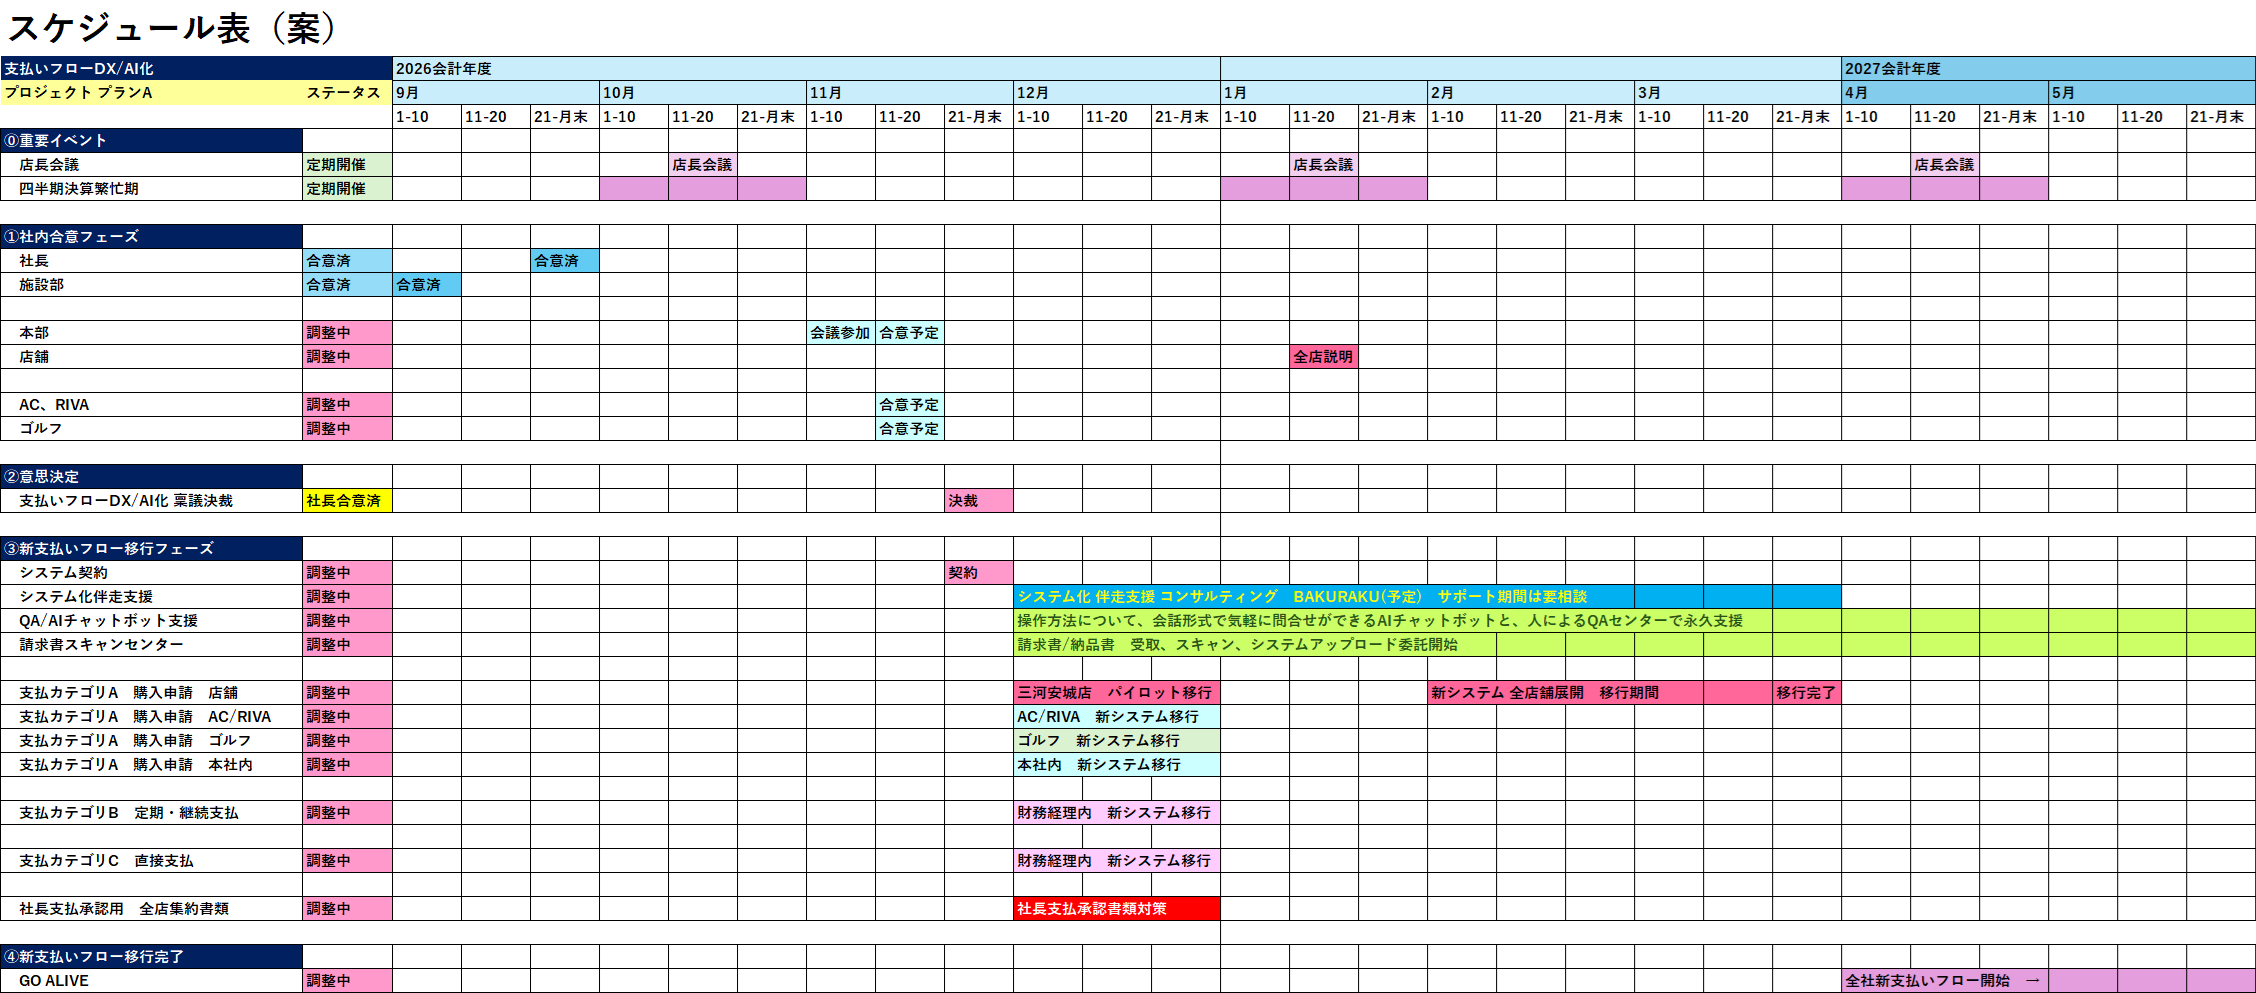
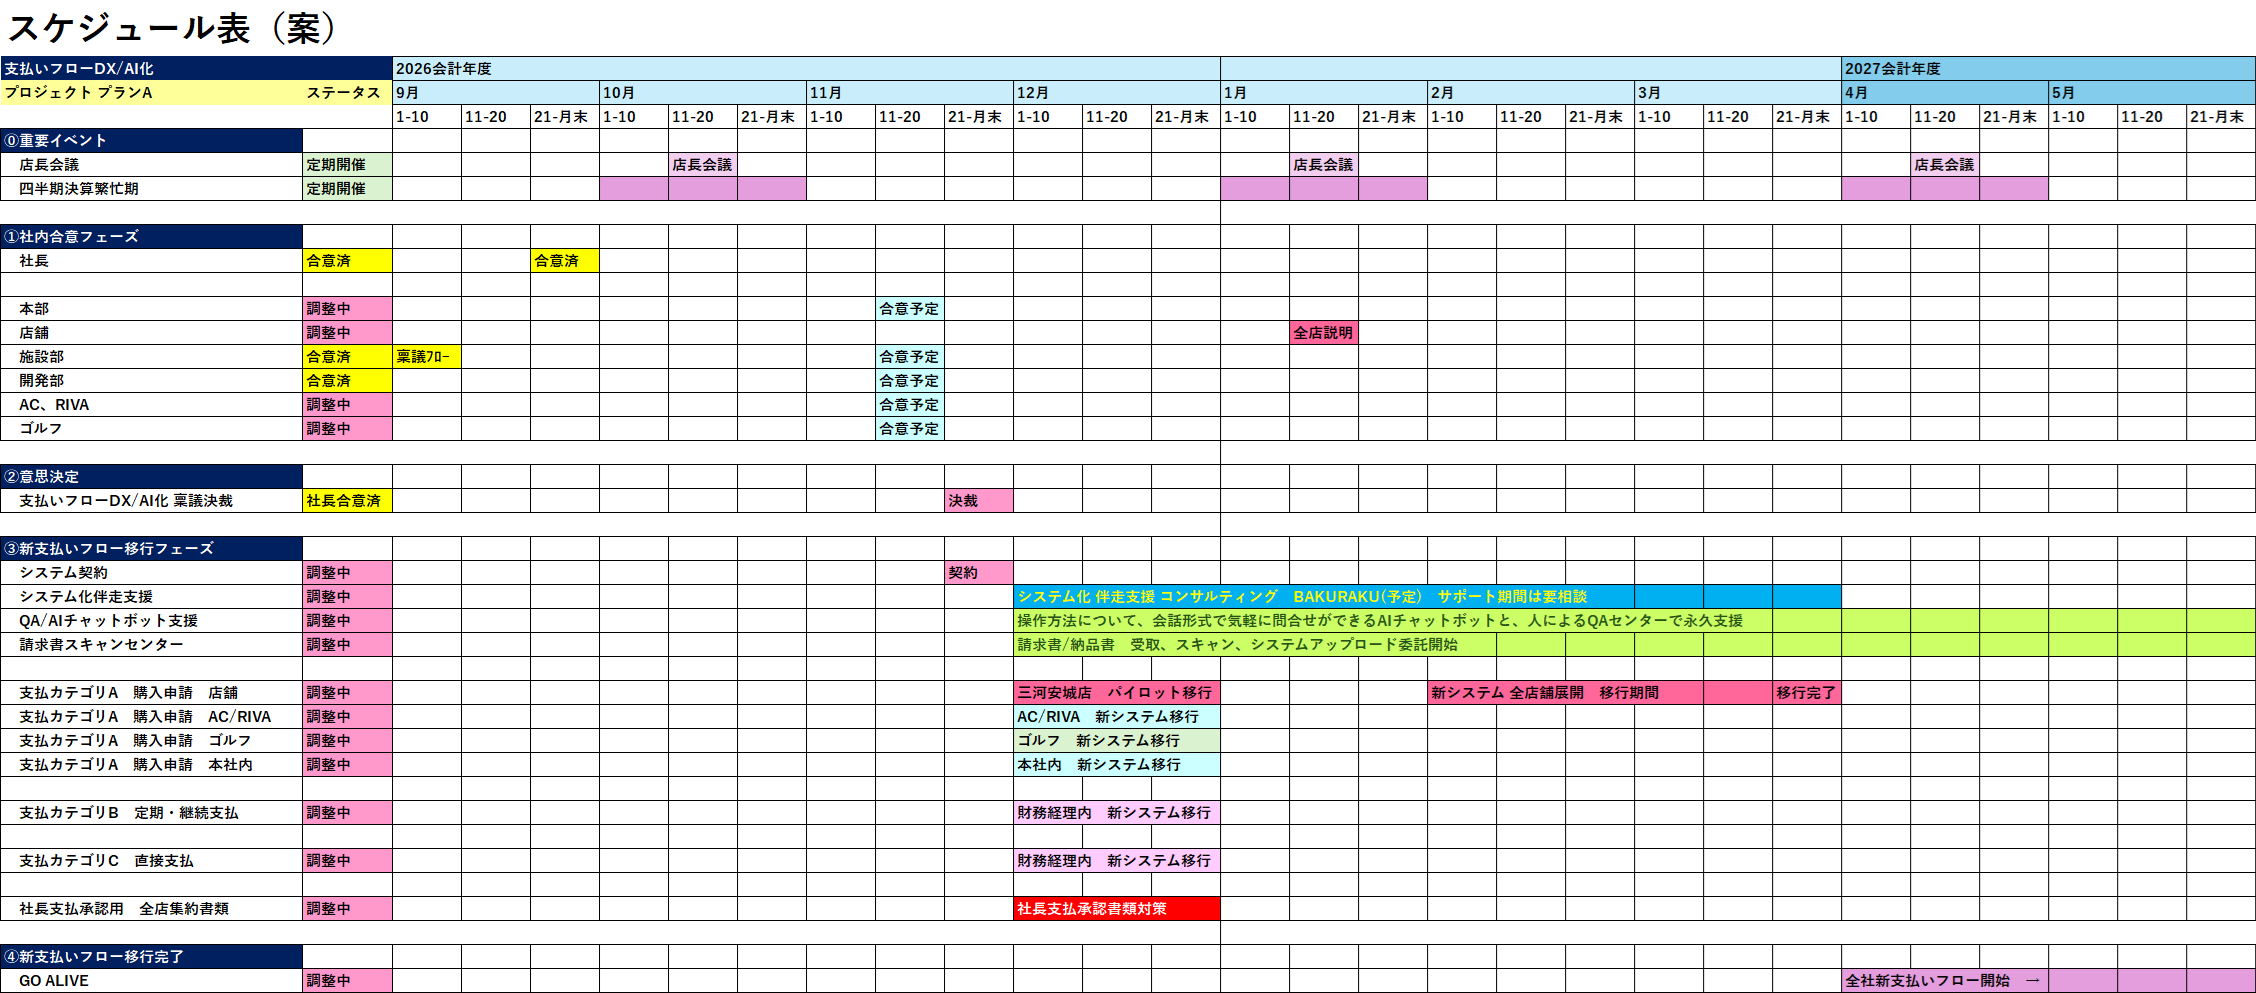
パスワードのハッシュ化および各詳細ページの修正を反映

diff --git a/index.html b/index.html
@@ -116,7 +116,7 @@
                         財務経理用
                     </button>
                     <button type="button" id="tab-btn-admin" role="tab" aria-selected="false" aria-controls="tab-admin-content" onclick="switchTab('admin')" class="app-tab-button px-4 py-2 text-xs font-medium rounded-lg transition-all text-slate-600 hover:text-slate-900">
-                        管理者
+                        🔒管理者
                     </button>
                 </nav>
             </div>
